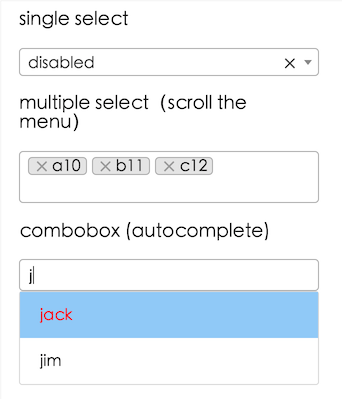
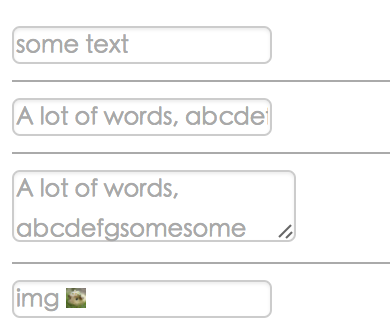
findInput textarea

Changed region(s): [[0.0292, 0.241, 1.0, 0.9639], [0.0292, 0.0301, 0.7018, 0.2108], [0.8187, 0.1205, 0.9357, 0.2108]]

diff --git a/example/basic.demo.js b/example/basic.demo.js
@@ -10,7 +10,7 @@ var App = React.createClass({
         var self = this
         return (
             <div>
-                <Placeholder className="example-basic" value={self.state.value} content="some text" >
+                <Placeholder content="some text" className="my-placeholder" value={self.state.value}>
                     <input type="text" value={self.state.value} onChange={function (e) {
                             self.setState({
                                 value: e.target.value
@@ -20,7 +20,7 @@ var App = React.createClass({
 
                 <hr/>
 
-                <Placeholder className="example-basic" value={self.state.value} content="A lot of words, abcdefg 123456" >
+                <Placeholder content="A lot of words, abcdefg 123456" className="my-placeholder" value={self.state.value}  >
                     <input type="text" value={self.state.value} onChange={function (e) {
                             self.setState({
                                 value: e.target.value
@@ -30,8 +30,17 @@ var App = React.createClass({
 
                 <hr/>
 
-                <Placeholder type="textarea" className="example-basic" value={self.state.value} content="A lot of words, abcdefgsomesome 123456" >
+                <Placeholder content="A lot of words, abcdefgsomesome 123456"  type="textarea" className="my-placeholder" value={self.state.value} >
                     <textarea value={self.state.value} onChange={function (e) {
+                            self.setState({
+                                value: e.target.value
+                            })
+                        }} />
+                </Placeholder>
+
+                <hr/>
+                <Placeholder content={(<div>img<storng>:</storng> <img src="https://pic3.zhimg.com/a91769a7a_l.jpg" height="10" /></div>)} className="my-placeholder" value={self.state.value} >
+                    <input value={self.state.value} onChange={function (e) {
                             self.setState({
                                 value: e.target.value
                             })

diff --git a/config/template.html b/config/template.html
@@ -12,10 +12,14 @@
 <style>pre{color: #abb2bf;background: #282c34;display: block;padding: 1em;overflow: auto;border-radius:.2em;}</style>
 <style>
 .fast-flow-demo {
-    padding:20px;
-    border:1px solid #ddd;
+    border:1px solid #AAA;
+    padding: 20px;
 }
 </style>
+<!-- Polyfills -->
+<!--[if lt IE 10]>
+<script src="https://as.alipayobjects.com/g/component/??console-polyfill/0.2.2/index.js,es5-shim/4.5.7/es5-shim.min.js,es5-shim/4.5.7/es5-sham.min.js,html5shiv/3.7.2/html5shiv.min.js,media-match/2.0.2/media.match.min.js"></script>
+<![endif]-->
 </head>
 <body>
 <a href="/<%- PACKAGE.version %>/index.html">Home</a> | <a href="/<%- PACKAGE.version %>/example/index.html">Example</a> | <a href="/<%- PACKAGE.version %>/test/index.html">Test</a>

diff --git a/example/dev.js b/example/dev.js
@@ -19,12 +19,3 @@ var render = ReactDOM.render
         render(<Demo />, node)
     })
 })(document.getElementById('example__basic_node'))
-
-// custom-style
-;(function (node) {
-    if (!node) {return}
-    require(['./custom-style.demo.js'], function (Demo) {
-        Demo = Demo.default || Demo
-        render(<Demo />, node)
-    })
-})(document.getElementById('example__custom-style_node'))

diff --git a/lib/props.js b/lib/props.js
@@ -8,7 +8,7 @@ export default function (component) {
             content: '',
             type: 'input',
             findInput: function (rootElement) {
-                return rootElement.getElementsByTagName('input')[0]
+                return rootElement.getElementsByTagName('input')[0] || rootElement.getElementsByTagName('textarea')[0]
             }
         },
         propTypes: {

diff --git a/config/fis-conf.js b/config/fis-conf.js
@@ -28,6 +28,7 @@ if (fis.project.currentMedia() === 'npm') {
     fis.match('**.js', {
         parser: [
             function (content, file) {
+                content = 'require("babel-polyfill");' + content
                 return babel.transform(content, require('./babel.js')).code
             },
             fis.plugin("translate-es3ify")

diff --git a/config/webpack.config.js b/config/webpack.config.js
@@ -22,6 +22,7 @@ module.exports = function (settings) {
         lastPlugins: [],
         externals: {}
     }, settings)
+    settings.entry.unshift('babel-polyfill')
     var config = {
         devtool: settings.devtool,
         entry: settings.entry,

diff --git a/example/README.md b/example/README.md
@@ -2,6 +2,8 @@
 
 ## input & textarea
 
+<div id="example__basic_node" class="fast-flow-demo">loading...</div>
+
 <!--MR-R {
     type: "pre",
     file: './basic.demo.js'
@@ -9,12 +11,13 @@
 [./basic.demo.js](./basic.demo.js)
 
 ````css
-.example-basic .r-placeholder-content{
+.my-placeholder .r-placeholder-content{
     font-size:12px;
     line-height: 20px;
     border-right:2px solid transparent;
     border-left:2px solid transparent;
 }
+hr {border:none;border-bottom: 1px solid #AAA;}
 input,
 textarea {
     color: #555;
@@ -23,8 +26,3 @@ textarea {
     box-shadow: inset 0 1px 1px rgba(0,0,0,.075);
 }
 ````
-
-<div id="example__basic_node" class="fast-flow-demo"></div>
-
-
-- [custom-style](./custom-style.md)
